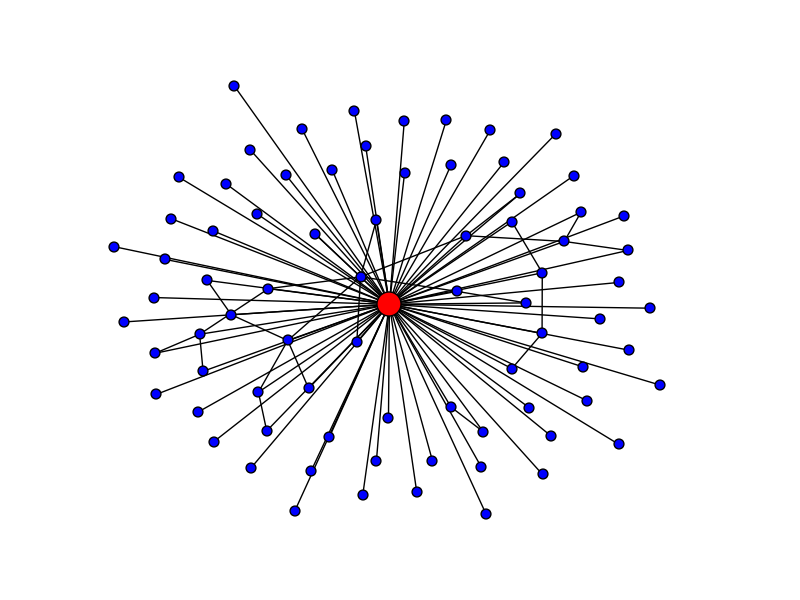
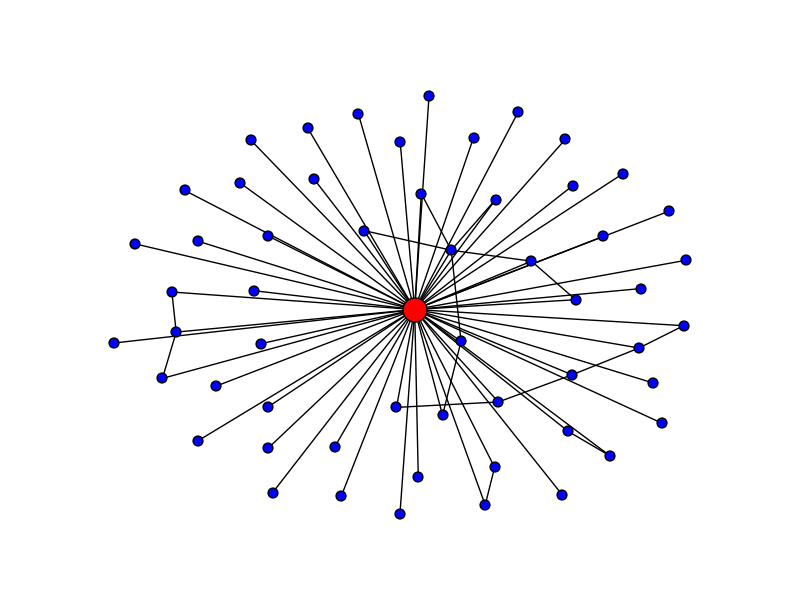
Graph - Include

diff --git a/07-graph.py b/07-graph.py
@@ -1,0 +1,75 @@
+# Add the upper directory (where the nodebox module is) to the search path.
+import os, sys; sys.path.insert(0, os.path.join("..",".."))
+
+from nodebox.graphics import *
+from nodebox.graphics.physics import Node, Edge, Graph
+
+# Create a graph with randomly connected nodes.
+# Nodes and edges can be styled with fill, stroke, strokewidth parameters.
+# Each node displays its id as a text label, stored as a Text object in Node.text.
+# To hide the node label, set the text parameter to None.
+g = Graph()
+# Random nodes.
+for i in range(100):
+    g.add_node(id=str(i+1), 
+        radius = 5,
+        stroke = color(1), 
+          text = color(1))
+# Random edges.
+for i in range(1,100):
+    node1 = 0#choice(g.nodes)
+    node2 = str(i)#choice(g.nodes)
+    g.add_edge(node1, node2, 
+        length = 200.0, 
+        weight = random(), 
+        stroke = color(1, 0, 0.25, 0.75))
+
+# Two handy tricks to prettify the layout:
+# 1) Nodes with a higher weight (i.e. incoming traffic) appear bigger.
+for node in g.nodes:
+    node.radius = node.radius + node.radius*node.weight
+# 2) Nodes with only one connection ("leaf" nodes) have a shorter connection.
+for node in g.nodes:
+    if len(node.edges) == 1:
+        node.edges[0].length *= 0.5
+
+g.prune(depth=0)          # Remove orphaned nodes with no connections.
+g.distance         = 15   # Overall spacing between nodes.
+g.layout.force     = 0.01 # Strength of the attractive & repulsive force.
+g.layout.repulsion = 10   # Repulsion radius.
+
+dragged = None
+def draw(canvas):
+    
+    canvas.clear()
+    background(0)
+    translate(600, 600)
+    
+    # With directed=True, edges have an arrowhead indicating the direction of the connection.
+    # With weighted=True, Node.centrality is indicated by a shadow under high-traffic nodes.
+    # With weighted=0.0-1.0, indicates nodes whose centrality > the given threshold.
+    # This requires some extra calculations.
+    g.draw(weighted=0.5, directed=True)
+    g.update(iterations=10)
+    
+    # Make it interactive!
+    # When the mouse is pressed, remember on which node.
+    # Drag this node around when the mouse is moved.
+    dx = canvas.mouse.x - 600 # Undo translate().
+    dy = canvas.mouse.y - 600
+    global dragged
+    if canvas.mouse.pressed and not dragged:
+        dragged = g.node_at(dx, dy)
+    if not canvas.mouse.pressed:
+        dragged = None
+    if dragged:
+        #dragged.x = dx
+        #dragged.y = dy
+        if dx < 1000:
+            dragged.x = dx
+        if dy < 1000:
+            dragged.y = dy
+        
+#canvas.size = 500, 500
+canvas.fullscreen = True            
+canvas.run(draw)

diff --git a/embedding_in_tk - My version.py b/embedding_in_tk - My version.py
@@ -20,7 +20,6 @@ root = Tk.Tk()
 root.wm_title("Embedding in TK")
 #root.geometry("1300x1000")
 
-
 f = Figure(figsize=(5,4), dpi=100)
 a = f.add_subplot(111)
 t = arange(0.0,3.0,0.01)
